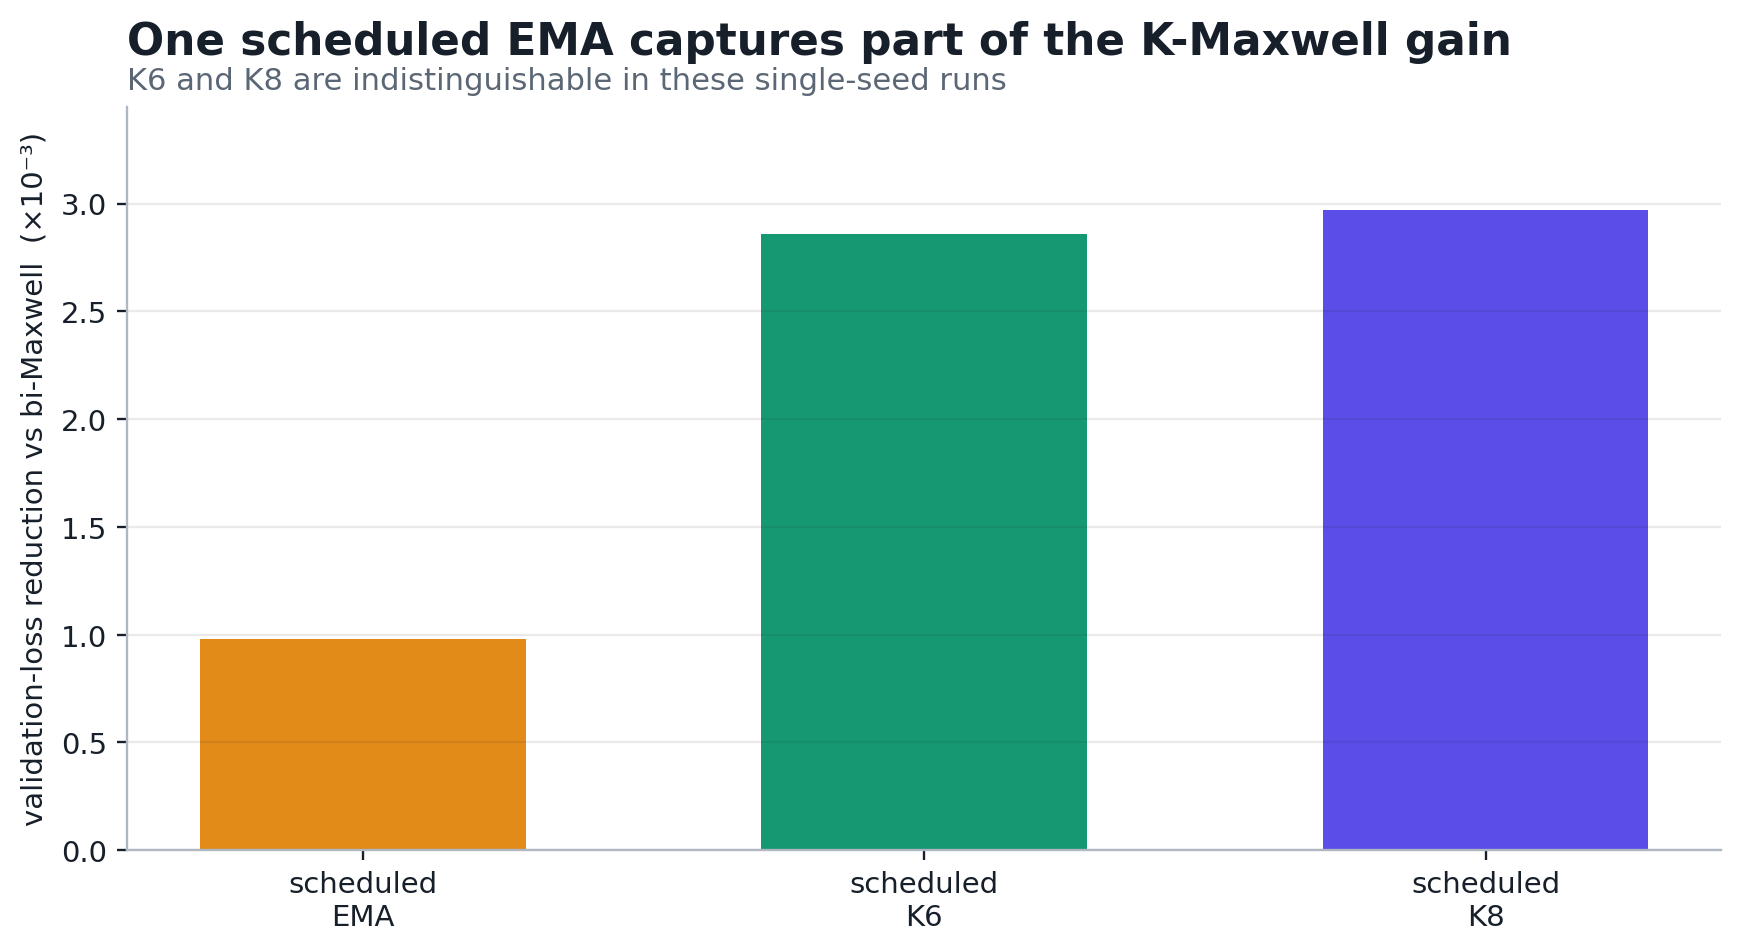
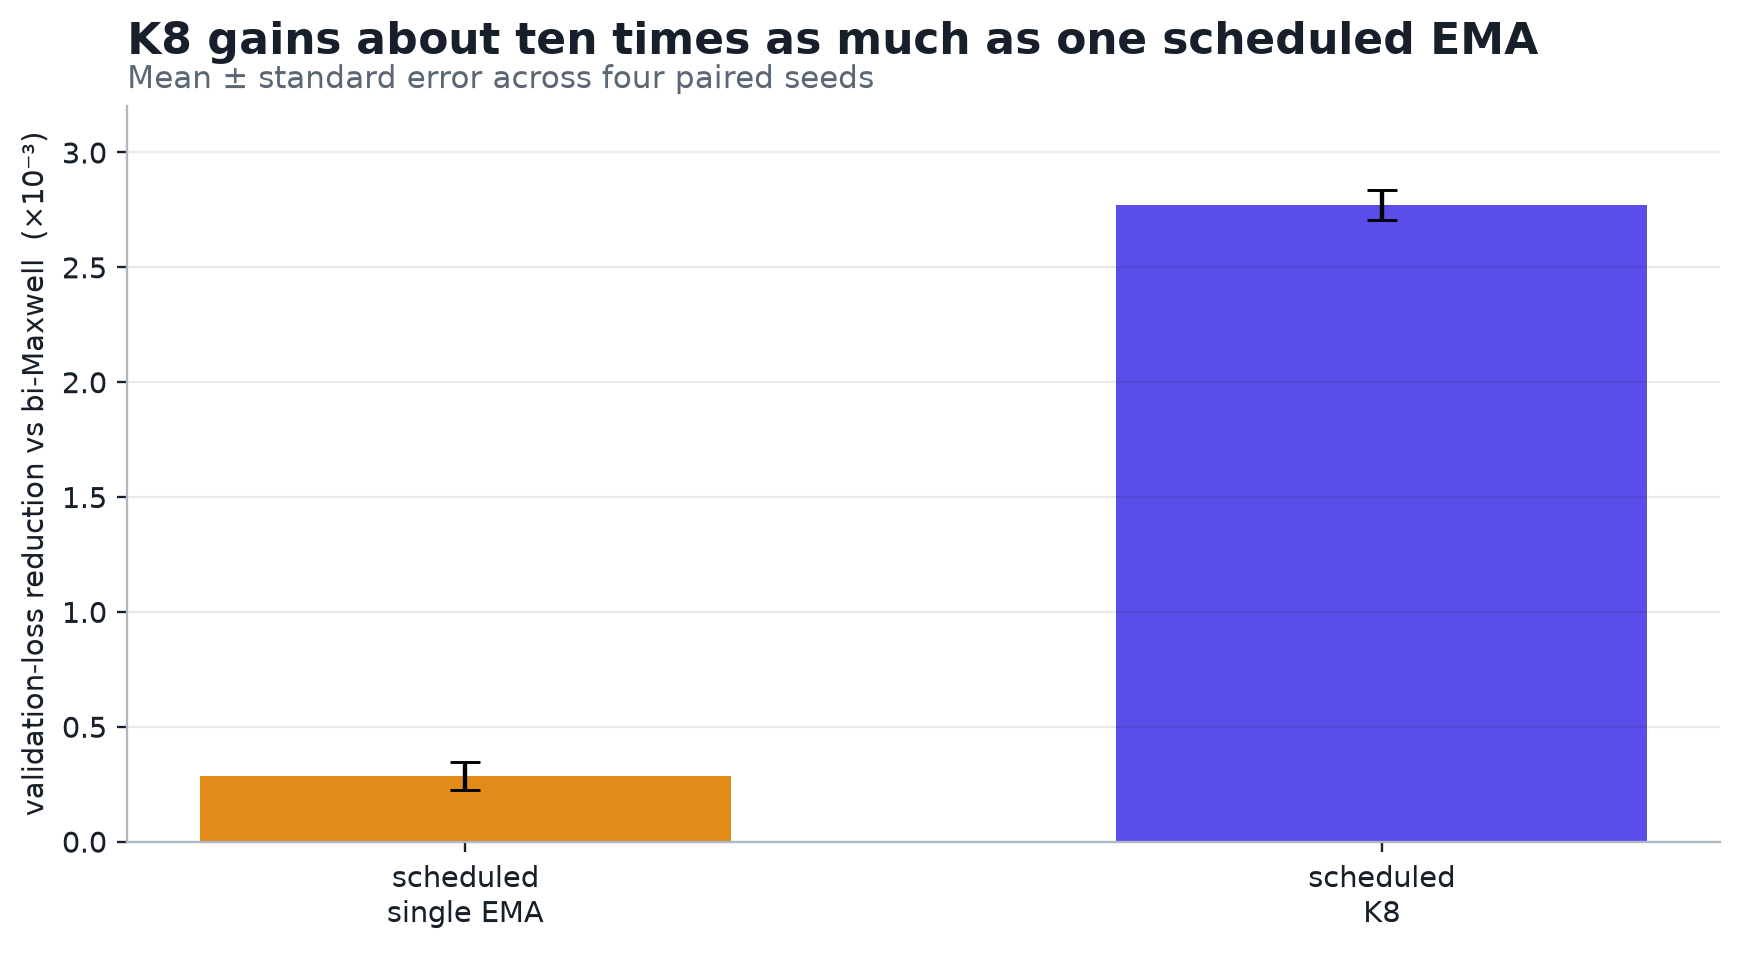
Add replicated momentum gain comparison

Changed region(s): [[0.031, 0.1828, 0.9621, 0.9748], [0.0621, 0.0, 0.9, 0.0914], [0.0, 0.1523, 0.0621, 0.8529]]

diff --git a/reports/nature-of-momentum-2026-08-29/index.html b/reports/nature-of-momentum-2026-08-29/index.html
@@ -93,22 +93,20 @@
   within each weight matrix. Momentum changes the relative influence of those
   directions before the matrix-sign step.</p></div>
 
-  <h2>1. Scheduling explains part of the K-Maxwell gain</h2>
-  <p>Scheduling the decay of one exponential moving average (EMA) of past
-  gradients recovers about one third of the validation-loss improvement of
-  K8—an eight-EMA K-Maxwell mixture—over bi-Maxwell, the matched two-EMA
-  control. K6, the six-EMA mixture, and K8 are too close to distinguish in a
-  single-seed discovery comparison, so these runs provide no resolved benefit
-  from the extra two summaries.</p>
+  <h2>1. A single EMA schedule captures one tenth of the K8 gain</h2>
+  <p>Across four paired seeds, scheduling the decay of one exponential moving
+  average (EMA) improves validation loss by about one tenth as much as K8, an
+  eight-EMA K-Maxwell mixture. Both comparisons use bi-Maxwell, the matched
+  two-EMA rule, as their control.</p>
   <p>The comparison varies two freedoms in temporal weighting. Scheduling one
   EMA changes its memory length during training. K-Maxwell instead maintains
   several EMA summaries with different decay rates and schedules their mixture
   weights.</p>
   <figure>
-    <img src="gain_decomposition.png" alt="Scheduled EMA recovers part of the K-Maxwell gain, while scheduled K6 and K8 are nearly tied">
+    <img src="gain_decomposition.png" alt="Across four paired seeds, scheduled K8 improves validation loss about ten times as much as a scheduled single EMA">
     <figcaption>Validation-loss reduction relative to the matched bi-Maxwell
-    control. Every run shares the same model and optimizer state through the
-    step-1000 fork. Exact losses and schedules appear in Appendix A.</figcaption>
+    control, averaged across four paired seeds. Exact values and the original
+    discovery runs appear in Appendix A.</figcaption>
   </figure>
   <p>The remaining endpoint gap has three coupled sources: the temporal weights
   used at the end, the gradient summaries stored in the momentum buffers, and
@@ -572,7 +570,20 @@ c-10,0,-16.667,5,-20,15z M188 15 H145 v585 v0 v585 h43z"/></svg></span></span></
 
   <h2>Appendices</h2>
   <details>
-    <summary>A. Exact discovery measurements</summary>
+    <summary>A. Exact training comparisons</summary>
+    <p>Four paired seeds confirm the K8 gain and reduce the estimated gain from
+    scheduling a single EMA:</p>
+    <table class="data">
+      <thead><tr><th>momentum rule</th><th>mean gain over paired bi-Maxwell</th><th>standard error</th></tr></thead>
+      <tbody>
+        <tr><td>scheduled single EMA</td><td>+0.000285</td><td>0.000062</td></tr>
+        <tr><td>scheduled K8</td><td>+0.00277</td><td>0.000065</td></tr>
+      </tbody>
+    </table>
+    <p class="small">Every seed favors both scheduled rules over its paired
+    bi-Maxwell control. These comparisons estimate replication noise with four
+    seeds rather than the eight required by the official Track 3 test.</p>
+    <p>The initial single-seed comparisons were:</p>
     <table class="data">
       <thead><tr><th>momentum rule</th><th>validation loss</th><th>gain over matched control</th></tr></thead>
       <tbody>
@@ -582,10 +593,10 @@ c-10,0,-16.667,5,-20,15z M188 15 H145 v585 v0 v585 h43z"/></svg></span></span></
         <tr><td>scheduled K8</td><td>3.27250</td><td>+0.00297</td></tr>
       </tbody>
     </table>
-    <p class="small">These are matched single-seed discovery runs forked from
-    the same step-1000 state. The scheduled single EMA moves from decay 0.982
-    to 0.944. Its improvement was +0.00068 in a second stack, so the one-third
-    comparison is an approximate scale.</p>
+    <p class="small">These matched discovery runs share the same step-1000
+    state. The scheduled single EMA moves from decay 0.982 to 0.944. Its
+    apparent gain was about 3.4 times larger here than in the four-seed mean;
+    the K8 discovery gain agrees with the four-seed estimate.</p>
     <p class="small">The bi-Maxwell control uses EMA decays 0.85 and 0.98 with
     mixture weights 0.4385 and 0.5615 after the step-1000 switch.</p>
     <p class="small">A separate scheduled power-law approximation lost to its
@@ -679,10 +690,10 @@ c-10,0,-16.667,5,-20,15z M188 15 H145 v585 v0 v585 h43z"/></svg></span></span></
   </details>
   <details>
     <summary>D. Statistical scope</summary>
-    <p class="small">The training comparisons use one seed and one checkpoint
-    fork per candidate, so the one-third decomposition is a scale estimate.
-    Published eight-seed results show gains from scheduled EMA mixtures on
-    different stacks; they do not calibrate this one-seed decomposition. The
+    <p class="small">The K8 and scheduled-single-EMA gains in Section 1 are
+    means over four paired seeds. These runs estimate replication noise and do
+    not constitute the official eight-seed Track 3 significance test. The
+    K6 comparison in Appendix A remains a single-seed discovery result. The
     matched-kernel experiment uses duplicate controls at every checkpoint, and the distilled
     rule is evaluated across seeds. The momentum-free curvature comparison uses a separate
     trajectory whose weight norms are about 0.31 times the reference. Kernel

diff --git a/reports/nature-of-momentum-2026-08-29/index.template.html b/reports/nature-of-momentum-2026-08-29/index.template.html
@@ -93,22 +93,20 @@
   within each weight matrix. Momentum changes the relative influence of those
   directions before the matrix-sign step.</p></div>
 
-  <h2>1. Scheduling explains part of the K-Maxwell gain</h2>
-  <p>Scheduling the decay of one exponential moving average (EMA) of past
-  gradients recovers about one third of the validation-loss improvement of
-  K8—an eight-EMA K-Maxwell mixture—over bi-Maxwell, the matched two-EMA
-  control. K6, the six-EMA mixture, and K8 are too close to distinguish in a
-  single-seed discovery comparison, so these runs provide no resolved benefit
-  from the extra two summaries.</p>
+  <h2>1. A single EMA schedule captures one tenth of the K8 gain</h2>
+  <p>Across four paired seeds, scheduling the decay of one exponential moving
+  average (EMA) improves validation loss by about one tenth as much as K8, an
+  eight-EMA K-Maxwell mixture. Both comparisons use bi-Maxwell, the matched
+  two-EMA rule, as their control.</p>
   <p>The comparison varies two freedoms in temporal weighting. Scheduling one
   EMA changes its memory length during training. K-Maxwell instead maintains
   several EMA summaries with different decay rates and schedules their mixture
   weights.</p>
   <figure>
-    <img src="gain_decomposition.png" alt="Scheduled EMA recovers part of the K-Maxwell gain, while scheduled K6 and K8 are nearly tied">
+    <img src="gain_decomposition.png" alt="Across four paired seeds, scheduled K8 improves validation loss about ten times as much as a scheduled single EMA">
     <figcaption>Validation-loss reduction relative to the matched bi-Maxwell
-    control. Every run shares the same model and optimizer state through the
-    step-1000 fork. Exact losses and schedules appear in Appendix A.</figcaption>
+    control, averaged across four paired seeds. Exact values and the original
+    discovery runs appear in Appendix A.</figcaption>
   </figure>
   <p>The remaining endpoint gap has three coupled sources: the temporal weights
   used at the end, the gradient summaries stored in the momentum buffers, and
@@ -534,7 +532,20 @@
 
   <h2>Appendices</h2>
   <details>
-    <summary>A. Exact discovery measurements</summary>
+    <summary>A. Exact training comparisons</summary>
+    <p>Four paired seeds confirm the K8 gain and reduce the estimated gain from
+    scheduling a single EMA:</p>
+    <table class="data">
+      <thead><tr><th>momentum rule</th><th>mean gain over paired bi-Maxwell</th><th>standard error</th></tr></thead>
+      <tbody>
+        <tr><td>scheduled single EMA</td><td>+0.000285</td><td>0.000062</td></tr>
+        <tr><td>scheduled K8</td><td>+0.00277</td><td>0.000065</td></tr>
+      </tbody>
+    </table>
+    <p class="small">Every seed favors both scheduled rules over its paired
+    bi-Maxwell control. These comparisons estimate replication noise with four
+    seeds rather than the eight required by the official Track 3 test.</p>
+    <p>The initial single-seed comparisons were:</p>
     <table class="data">
       <thead><tr><th>momentum rule</th><th>validation loss</th><th>gain over matched control</th></tr></thead>
       <tbody>
@@ -544,10 +555,10 @@
         <tr><td>scheduled K8</td><td>3.27250</td><td>+0.00297</td></tr>
       </tbody>
     </table>
-    <p class="small">These are matched single-seed discovery runs forked from
-    the same step-1000 state. The scheduled single EMA moves from decay 0.982
-    to 0.944. Its improvement was +0.00068 in a second stack, so the one-third
-    comparison is an approximate scale.</p>
+    <p class="small">These matched discovery runs share the same step-1000
+    state. The scheduled single EMA moves from decay 0.982 to 0.944. Its
+    apparent gain was about 3.4 times larger here than in the four-seed mean;
+    the K8 discovery gain agrees with the four-seed estimate.</p>
     <p class="small">The bi-Maxwell control uses EMA decays 0.85 and 0.98 with
     mixture weights 0.4385 and 0.5615 after the step-1000 switch.</p>
     <p class="small">A separate scheduled power-law approximation lost to its
@@ -641,10 +652,10 @@
   </details>
   <details>
     <summary>D. Statistical scope</summary>
-    <p class="small">The training comparisons use one seed and one checkpoint
-    fork per candidate, so the one-third decomposition is a scale estimate.
-    Published eight-seed results show gains from scheduled EMA mixtures on
-    different stacks; they do not calibrate this one-seed decomposition. The
+    <p class="small">The K8 and scheduled-single-EMA gains in Section 1 are
+    means over four paired seeds. These runs estimate replication noise and do
+    not constitute the official eight-seed Track 3 significance test. The
+    K6 comparison in Appendix A remains a single-seed discovery result. The
     matched-kernel experiment uses duplicate controls at every checkpoint, and the distilled
     rule is evaluated across seeds. The momentum-free curvature comparison uses a separate
     trajectory whose weight norms are about 0.31 times the reference. Kernel

diff --git a/reports/nature-of-momentum-2026-08-29/make_new_report_figures.py b/reports/nature-of-momentum-2026-08-29/make_new_report_figures.py
@@ -25,17 +25,19 @@ def save(fig, name):
 
 
 def gains():
-    labels = ["scheduled\nEMA", "scheduled\nK6", "scheduled\nK8"]
-    values = np.array([0.00098, 0.00286, 0.00297]) * 1000
-    colors = [ORANGE, GREEN, PURPLE]
+    labels = ["scheduled\nsingle EMA", "scheduled\nK8"]
+    values = np.array([0.000285, 0.00277]) * 1000
+    errors = np.array([0.000062, 0.000065]) * 1000
+    colors = [ORANGE, PURPLE]
 
     fig, ax = plt.subplots(figsize=(8.4, 4.65))
-    ax.bar(np.arange(3), values, width=0.58, color=colors)
-    ax.set_xticks(np.arange(3), labels)
-    ax.set_ylim(0, 3.45)
+    x = np.arange(2)
+    ax.bar(x, values, yerr=errors, width=0.58, color=colors, capsize=5)
+    ax.set_xticks(x, labels)
+    ax.set_ylim(0, 3.2)
     ax.set_ylabel("validation-loss reduction vs bi-Maxwell  (×10⁻³)", color=INK)
     ax.set_title(
-        "One scheduled EMA captures part of the K-Maxwell gain",
+        "K8 gains about ten times as much as one scheduled EMA",
         loc="left",
         fontsize=15,
         color=INK,
@@ -45,7 +47,7 @@ def gains():
     ax.text(
         0,
         1.015,
-        "K6 and K8 are indistinguishable in these single-seed runs",
+        "Mean ± standard error across four paired seeds",
         transform=ax.transAxes,
         ha="left",
         va="bottom",
